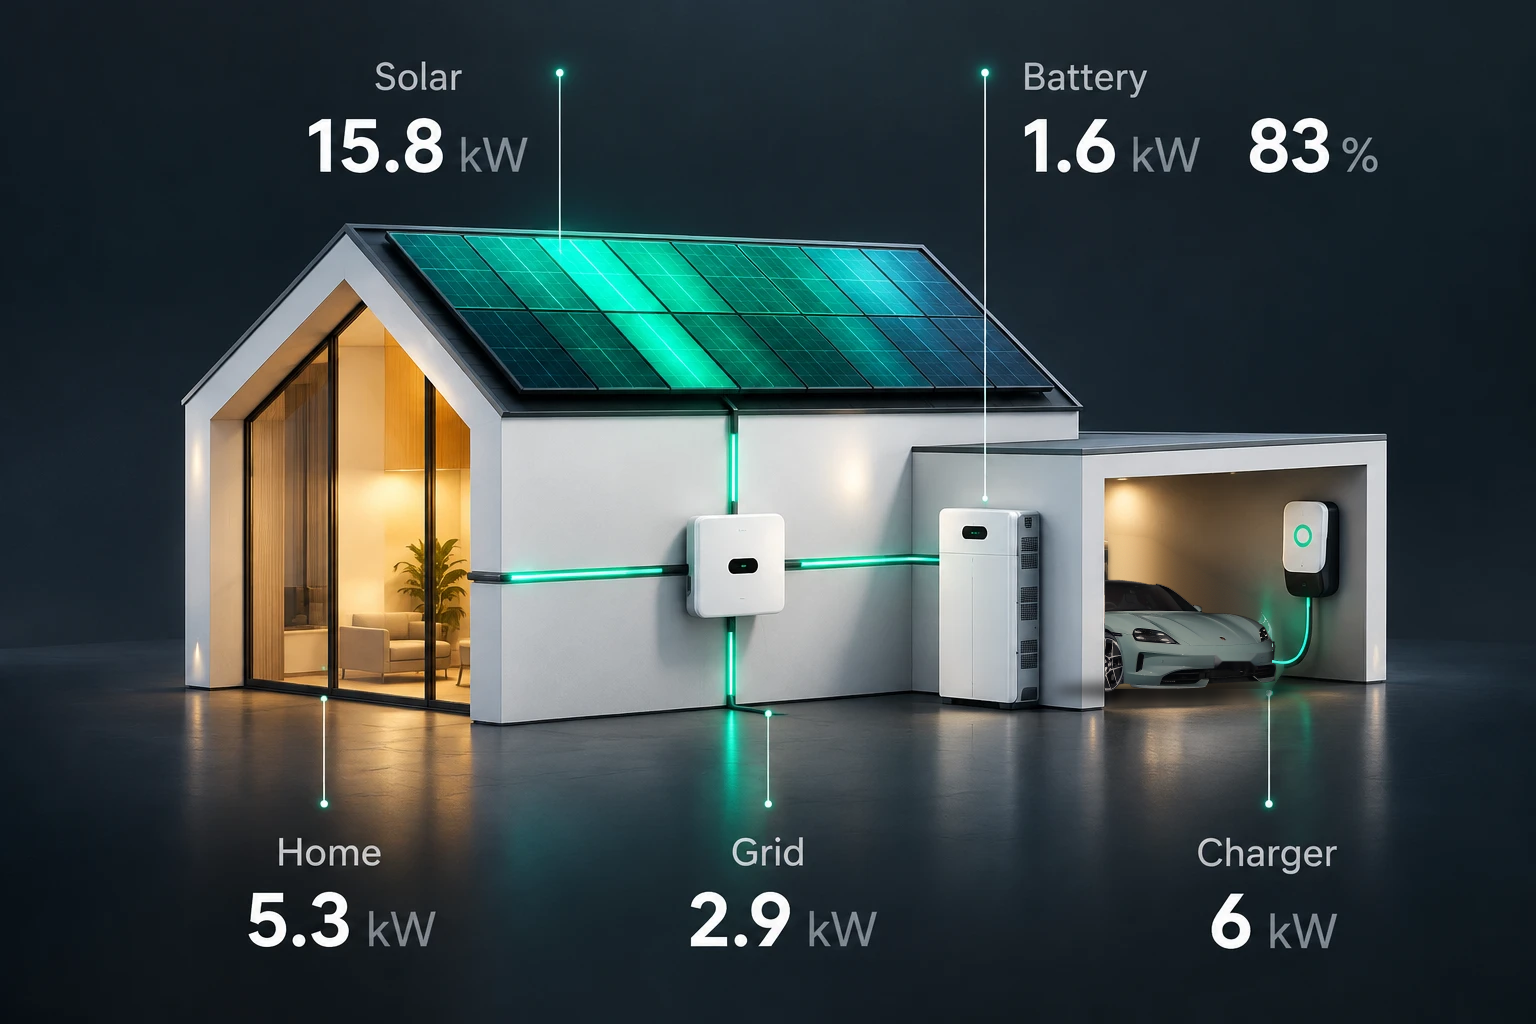
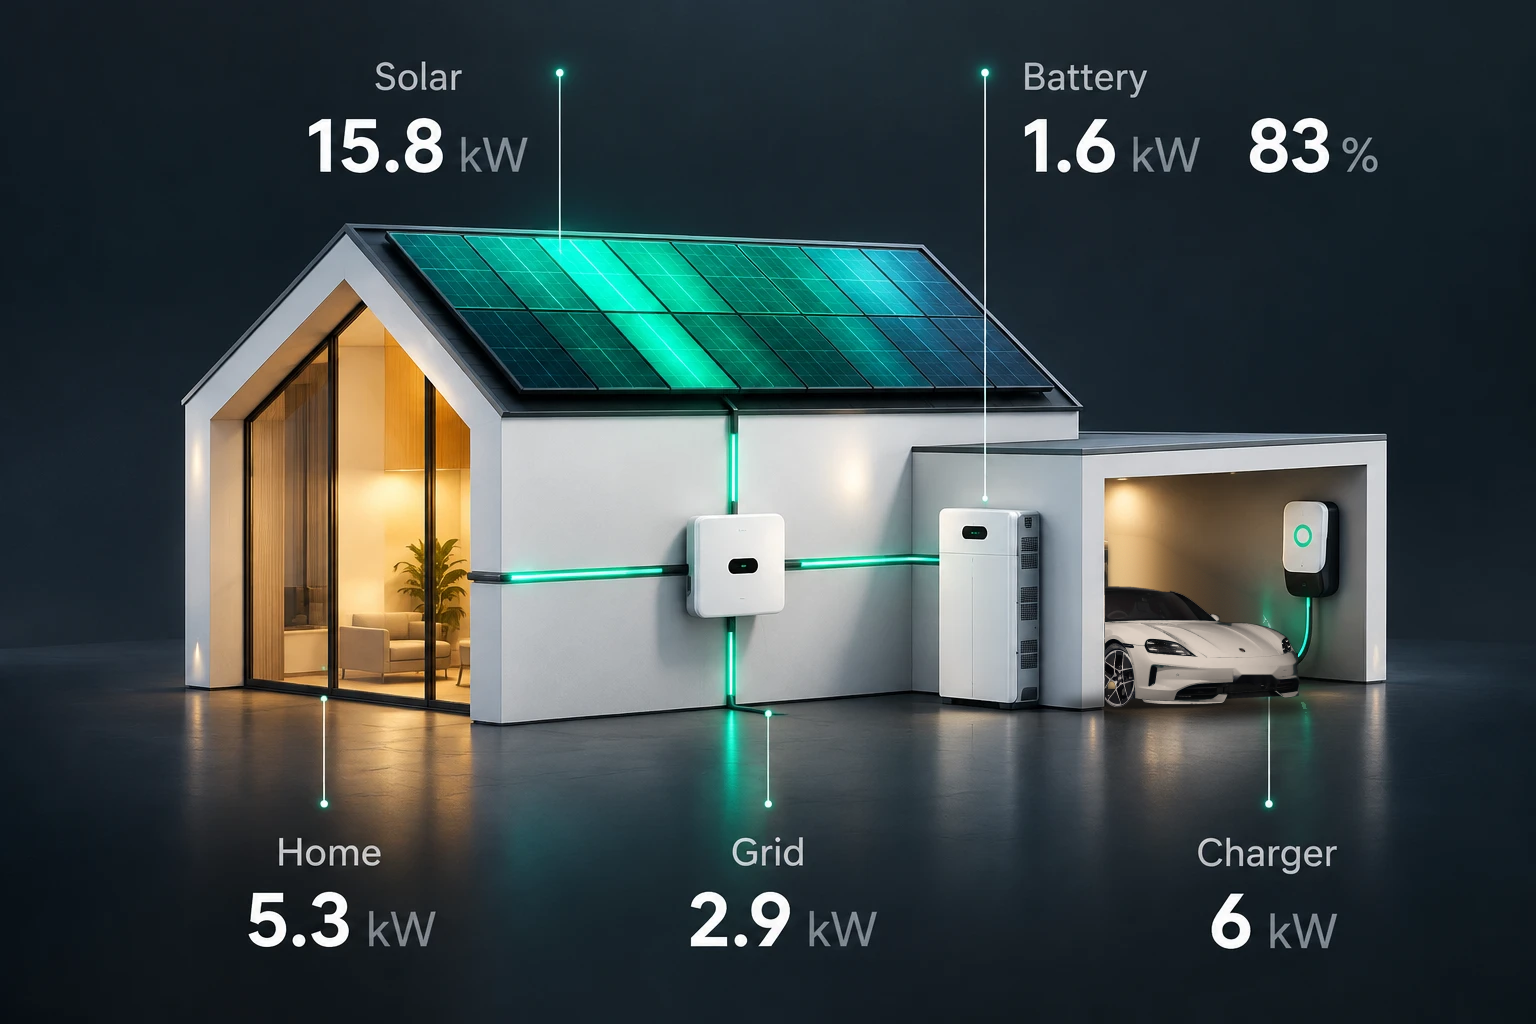
E2 návrh: biele Porsche Taycan, viac vysunuté z garáže (na schválenie)
Claude-Session: https://claude.ai/code/session_018jhdzS8J2r1yXnP3m5fMZR

Changed region(s): [[0.6875, 0.5625, 0.8438, 0.7188]]

diff --git a/tools/design/porsche/taycan_composite.py b/tools/design/porsche/taycan_composite.py
@@ -2,6 +2,15 @@ import cv2, numpy as np, sys
 SC = float(sys.argv[1]) if len(sys.argv) > 1 else 0.36
 NOSE = (int(sys.argv[2]) if len(sys.argv) > 2 else 1276, int(sys.argv[3]) if len(sys.argv) > 3 else 692)
 car = cv2.imread('car_noplate.png'); m = cv2.imread('car_mask.png', 0)
+# biela farba karosérie: lak (stredne svetlý, mierne sýty) → neutrálna biela; sklo, pneumatiky, svetlá ostávajú
+hsv = cv2.cvtColor(car, cv2.COLOR_BGR2HSV).astype(np.float32)
+Hh, Ss, Vv = hsv[..., 0], hsv[..., 1], hsv[..., 2]
+paint = (Vv > 70) & (Hh > 70) & (Hh < 110) & (Ss > 18)
+pw = cv2.GaussianBlur(paint.astype(np.float32), (0, 0), 1.2)
+gray = cv2.cvtColor(car, cv2.COLOR_BGR2GRAY).astype(np.float32)
+white = np.clip(gray * 1.22 + 46, 0, 255)
+white3 = np.stack([white * 0.985, white * 0.99, white], -1)
+car = (car.astype(np.float32) * (1 - pw[..., None]) + white3 * pw[..., None]).astype(np.uint8)
 # doplnenie tmavých častí predného nárazníka (mriežky), ktoré segmentácia vynechala
 cv2.fillPoly(m, [np.array([(322, 690), (332, 845), (600, 858), (875, 850), (905, 780), (885, 690)], np.int32)], 255)
 # odstrániť prípadné pozadie pod autom mimo karosérie (tiene ostanú z masky)
@@ -22,7 +31,7 @@ tesla = np.zeros((hh, hw), np.uint8)
 cv2.fillPoly(tesla, [np.array([(1108, 534), (1150, 538), (1205, 573), (1252, 598), (1279, 610), (1283, 670), (1262, 702), (1108, 706)], np.int32)], 255)
 cable = ((G - R) > 40) & (G > 110)
 cable_top = cable & (np.arange(hw)[None, :] > 1271)
-tesla[cable] = 0
+tesla[cable & (np.arange(hw)[None, :] > 1262)] = 0
 clean = cv2.inpaint(house, tesla, 7, cv2.INPAINT_NS)
 # zjemnenie retušovanej plochy (iba stena za autom)
 soft = cv2.GaussianBlur(clean, (0, 0), 5)
@@ -57,9 +66,9 @@ graded = np.clip(graded, 0, 255)
 out = clean.astype(np.float32)
 sh = np.zeros((hh, hw), np.float32)
 cy = NOSE[1] - 2
-cv2.ellipse(sh, (NOSE[0] - int(150 * SC / 0.36), cy), (int(170 * SC / 0.36), 9), 0, 0, 360, 0.75, -1)
+cv2.ellipse(sh, (NOSE[0] - int(150 * SC / 0.36), cy), (int(170 * SC / 0.36), 11), 0, 0, 360, 0.75, -1)
 sh = cv2.GaussianBlur(sh, (0, 0), 6)[..., None]
-out = out * (1 - sh * 0.8)
+out = out * (1 - sh * 0.9)
 # 4) vloženie auta, iba v otvore garáže (ľavý stĺp zakrýva zadok auta)
 opening = np.zeros((hh, hw), np.float32)
 cv2.fillPoly(opening, [np.array([(1105, 478), (1368, 478), (1368, 760), (1105, 760)], np.int32)], 1.0)
@@ -72,6 +81,7 @@ alpha *= opening
 a = alpha[..., None]
 out = out * (1 - a) + layer * a
 # 5) kábel z pôvodného obrázka ostáva navrchu
+cable_top &= alpha < 0.5
 out[cable_top] = house[cable_top]
 cv2.imwrite('composite.png', out.astype(np.uint8))
 cv2.imwrite('comp_zoom.png', cv2.resize(out.astype(np.uint8)[440:720, 1060:1400], (1020, 840), interpolation=cv2.INTER_LANCZOS4))

diff --git a/docs/navrh-e2/porsche/NAVRH_PORSCHE.md b/docs/navrh-e2/porsche/NAVRH_PORSCHE.md
@@ -7,7 +7,8 @@ Celý obrázok (1536 × 1024): [dom-porsche-nahlad-1536.png](dom-porsche-nahlad-
 - Tesla odstránená, zadná stena garáže doplnená plynulým pokračovaním steny.
 - Porsche Taycan vyrezané z dodanej fotografie, zrkadlovo otočené (predok k wallboxu ako pôvodné auto),
   veľkosť podľa reálnych rozmerov (výška ~1,38 m oproti otvoru garáže), zadná časť zakrytá stĺpom garáže.
-- Farba ostala pôvodná (podľa pokynu), jemne prispôsobená teplému svetlu garáže; kontaktný tieň pod autom.
+- **Biela farba** karosérie (pôvodný lak prefarbený, sklo, kolesá a svetlá ostali), jemne prispôsobená svetlu garáže; kontaktný tieň pod autom.
+- Auto je **viac vysunuté z garáže** (predok na príjazdovej ploche, mierne väčšie – bližšie k pozorovateľovi). Parametre: `taycan_composite.py 0.27 1300 708`.
 - Odstránená ŠPZ a vodoznaky fotografie; nabíjací kábel ostáva pred autom.
 - Čísla a popisy v obrázku sú zatiaľ pôvodné – odstránia sa v etape C (živé hodnoty v Reacte).
 
